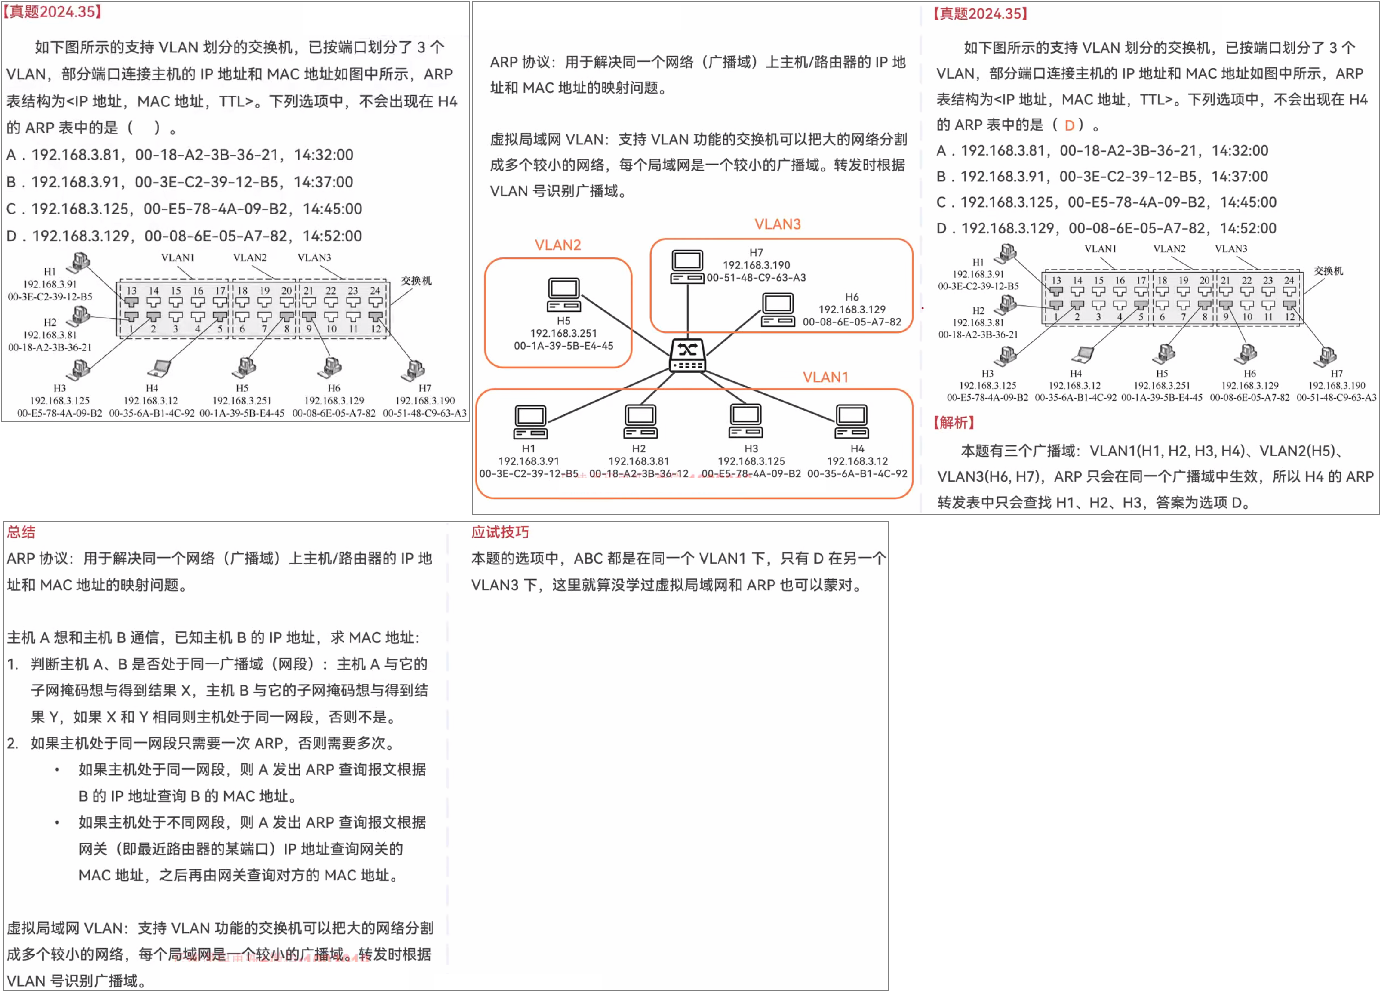
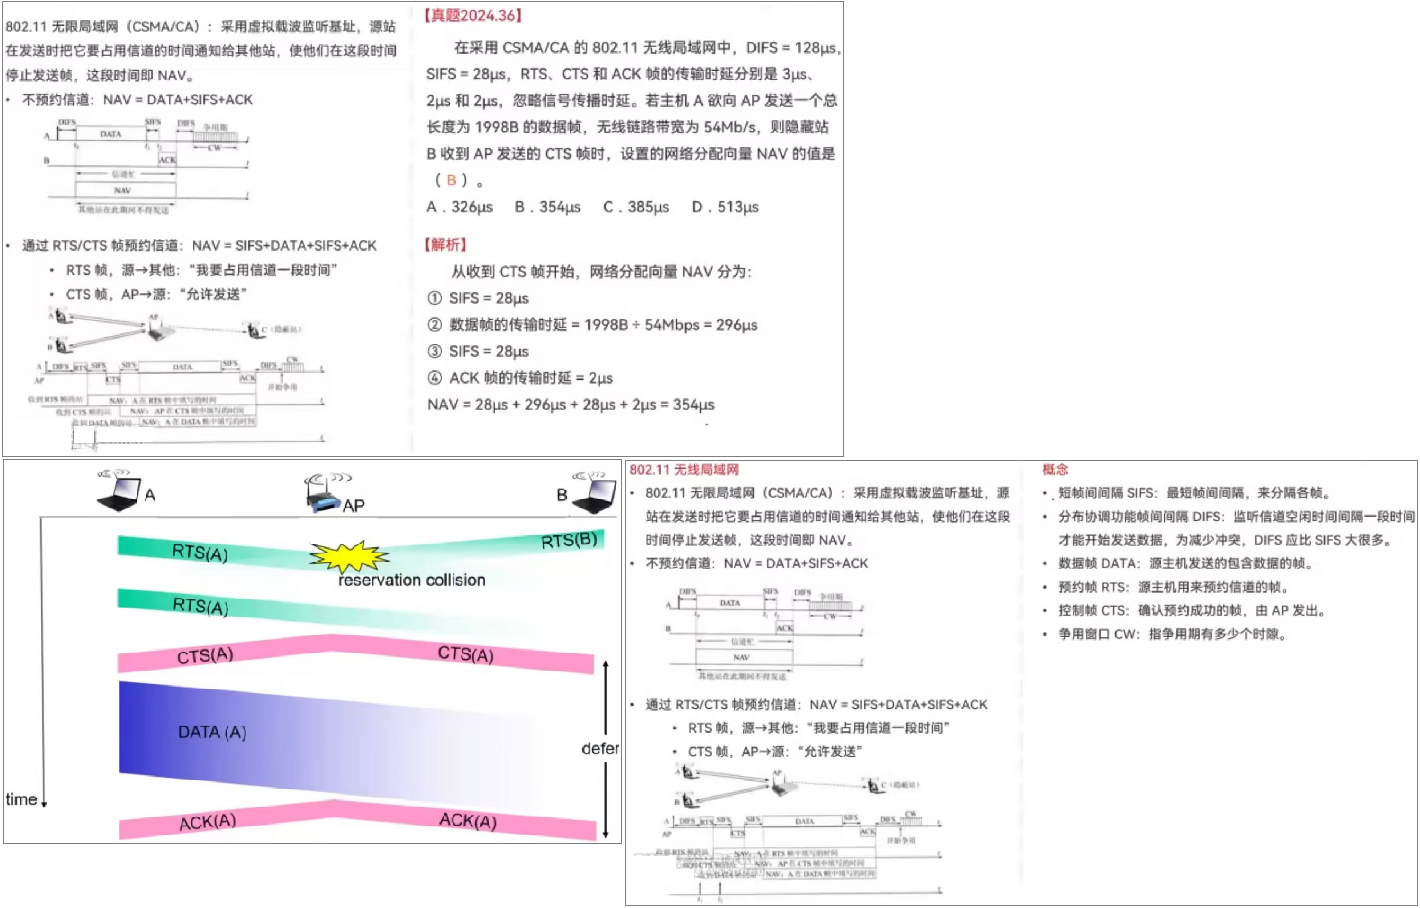
260316 D260 1

Changed region(s): [[0.0, 0.0, 1.0, 1.0], [0.4048, 0.8018, 0.4359, 0.8326], [0.0, 0.8634, 0.0311, 0.8943]]

diff --git a/01 27/01 初试/01 408真题/01 24408 150‘ = 80‘+70’/01 单项选择题 80' = 22‘ + 18' + 24‘ + 16‘/04 计算机网络 16‘ = 2’ × 8/04 单选 36 2‘/01 260315 D261 7/02 Doc.md b/01 27/01 初试/01 408真题/01 24408 150‘ = 80‘+70’/01 单项选择题 80' = 22‘ + 18' + 24‘ + 16‘/04 计算机网络 16‘ = 2’ × 8/04 单选 36 2‘/01 260315 D261 7/02 Doc.md
@@ -1,12 +1,12 @@
 # 01 题目
 
-![image-20260315185847811](C:\Users\Administrator\AppData\Roaming\Typora\typora-user-images\image-20260315185847811.png)
+<img src="https://cvp.oss-cn-shanghai.aliyuncs.com/202603151900570.png" alt="image-20260315185959477" style="zoom:50%;" />
 
 
 
 # 02 答案
 
-<img src="https://cvp.oss-cn-shanghai.aliyuncs.com/202602250757834.png" alt="image-20260225075702717" style="zoom:50%;" />
+<img src="https://cvp.oss-cn-shanghai.aliyuncs.com/202603151905204.png" alt="image-20260315190515085" style="zoom:50%;" />
 
 
 